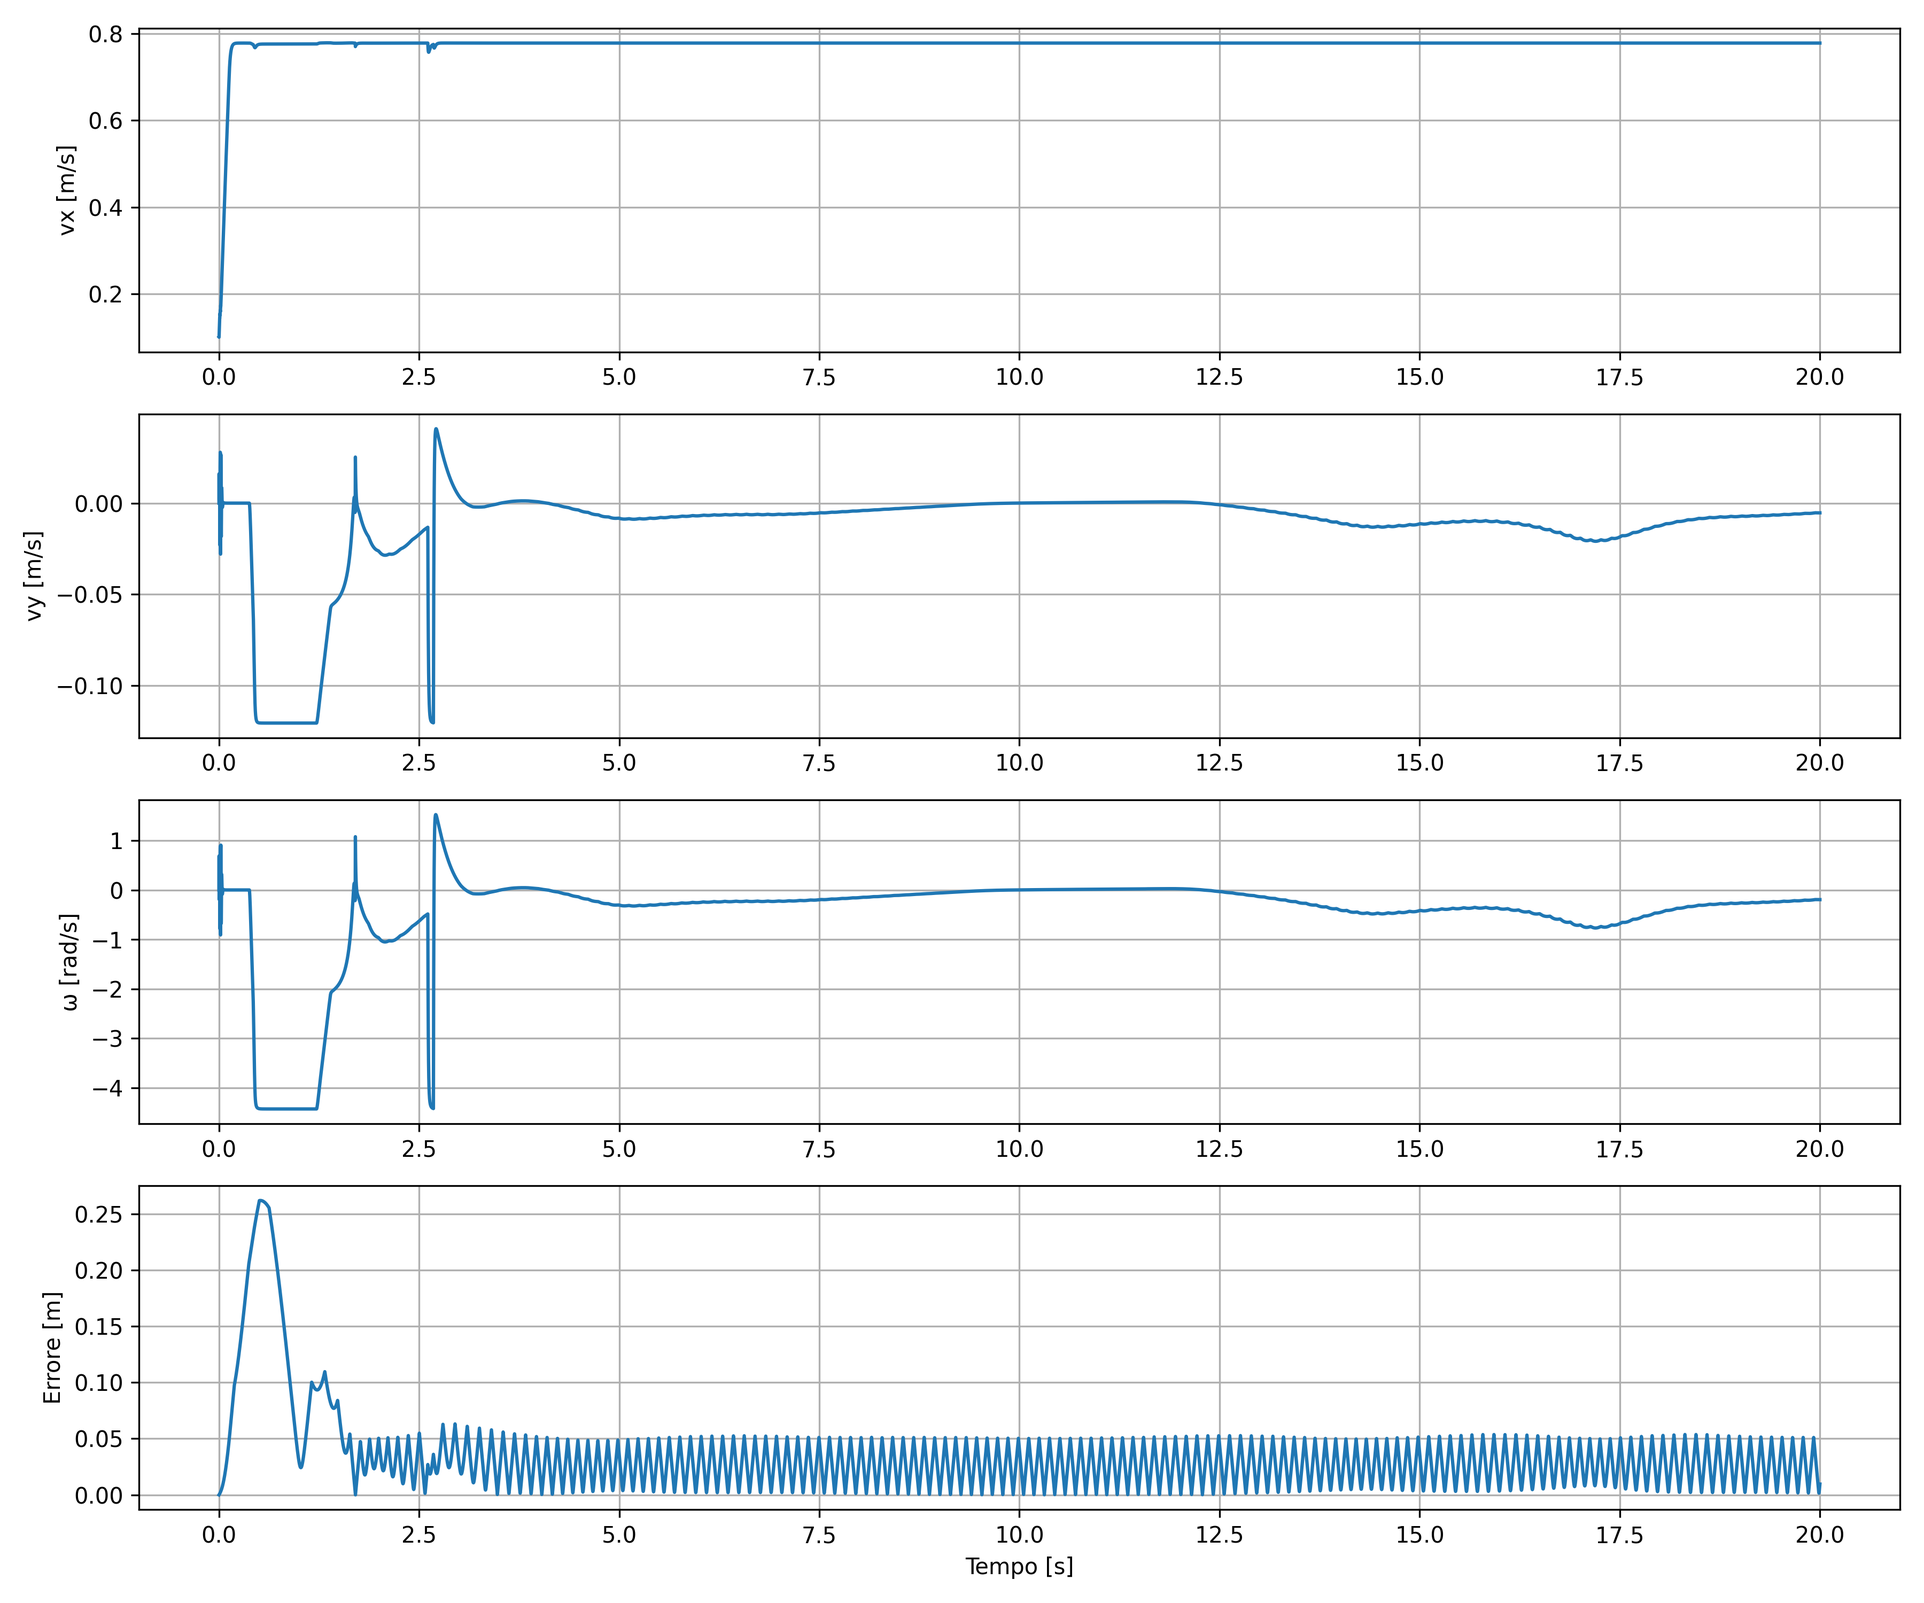
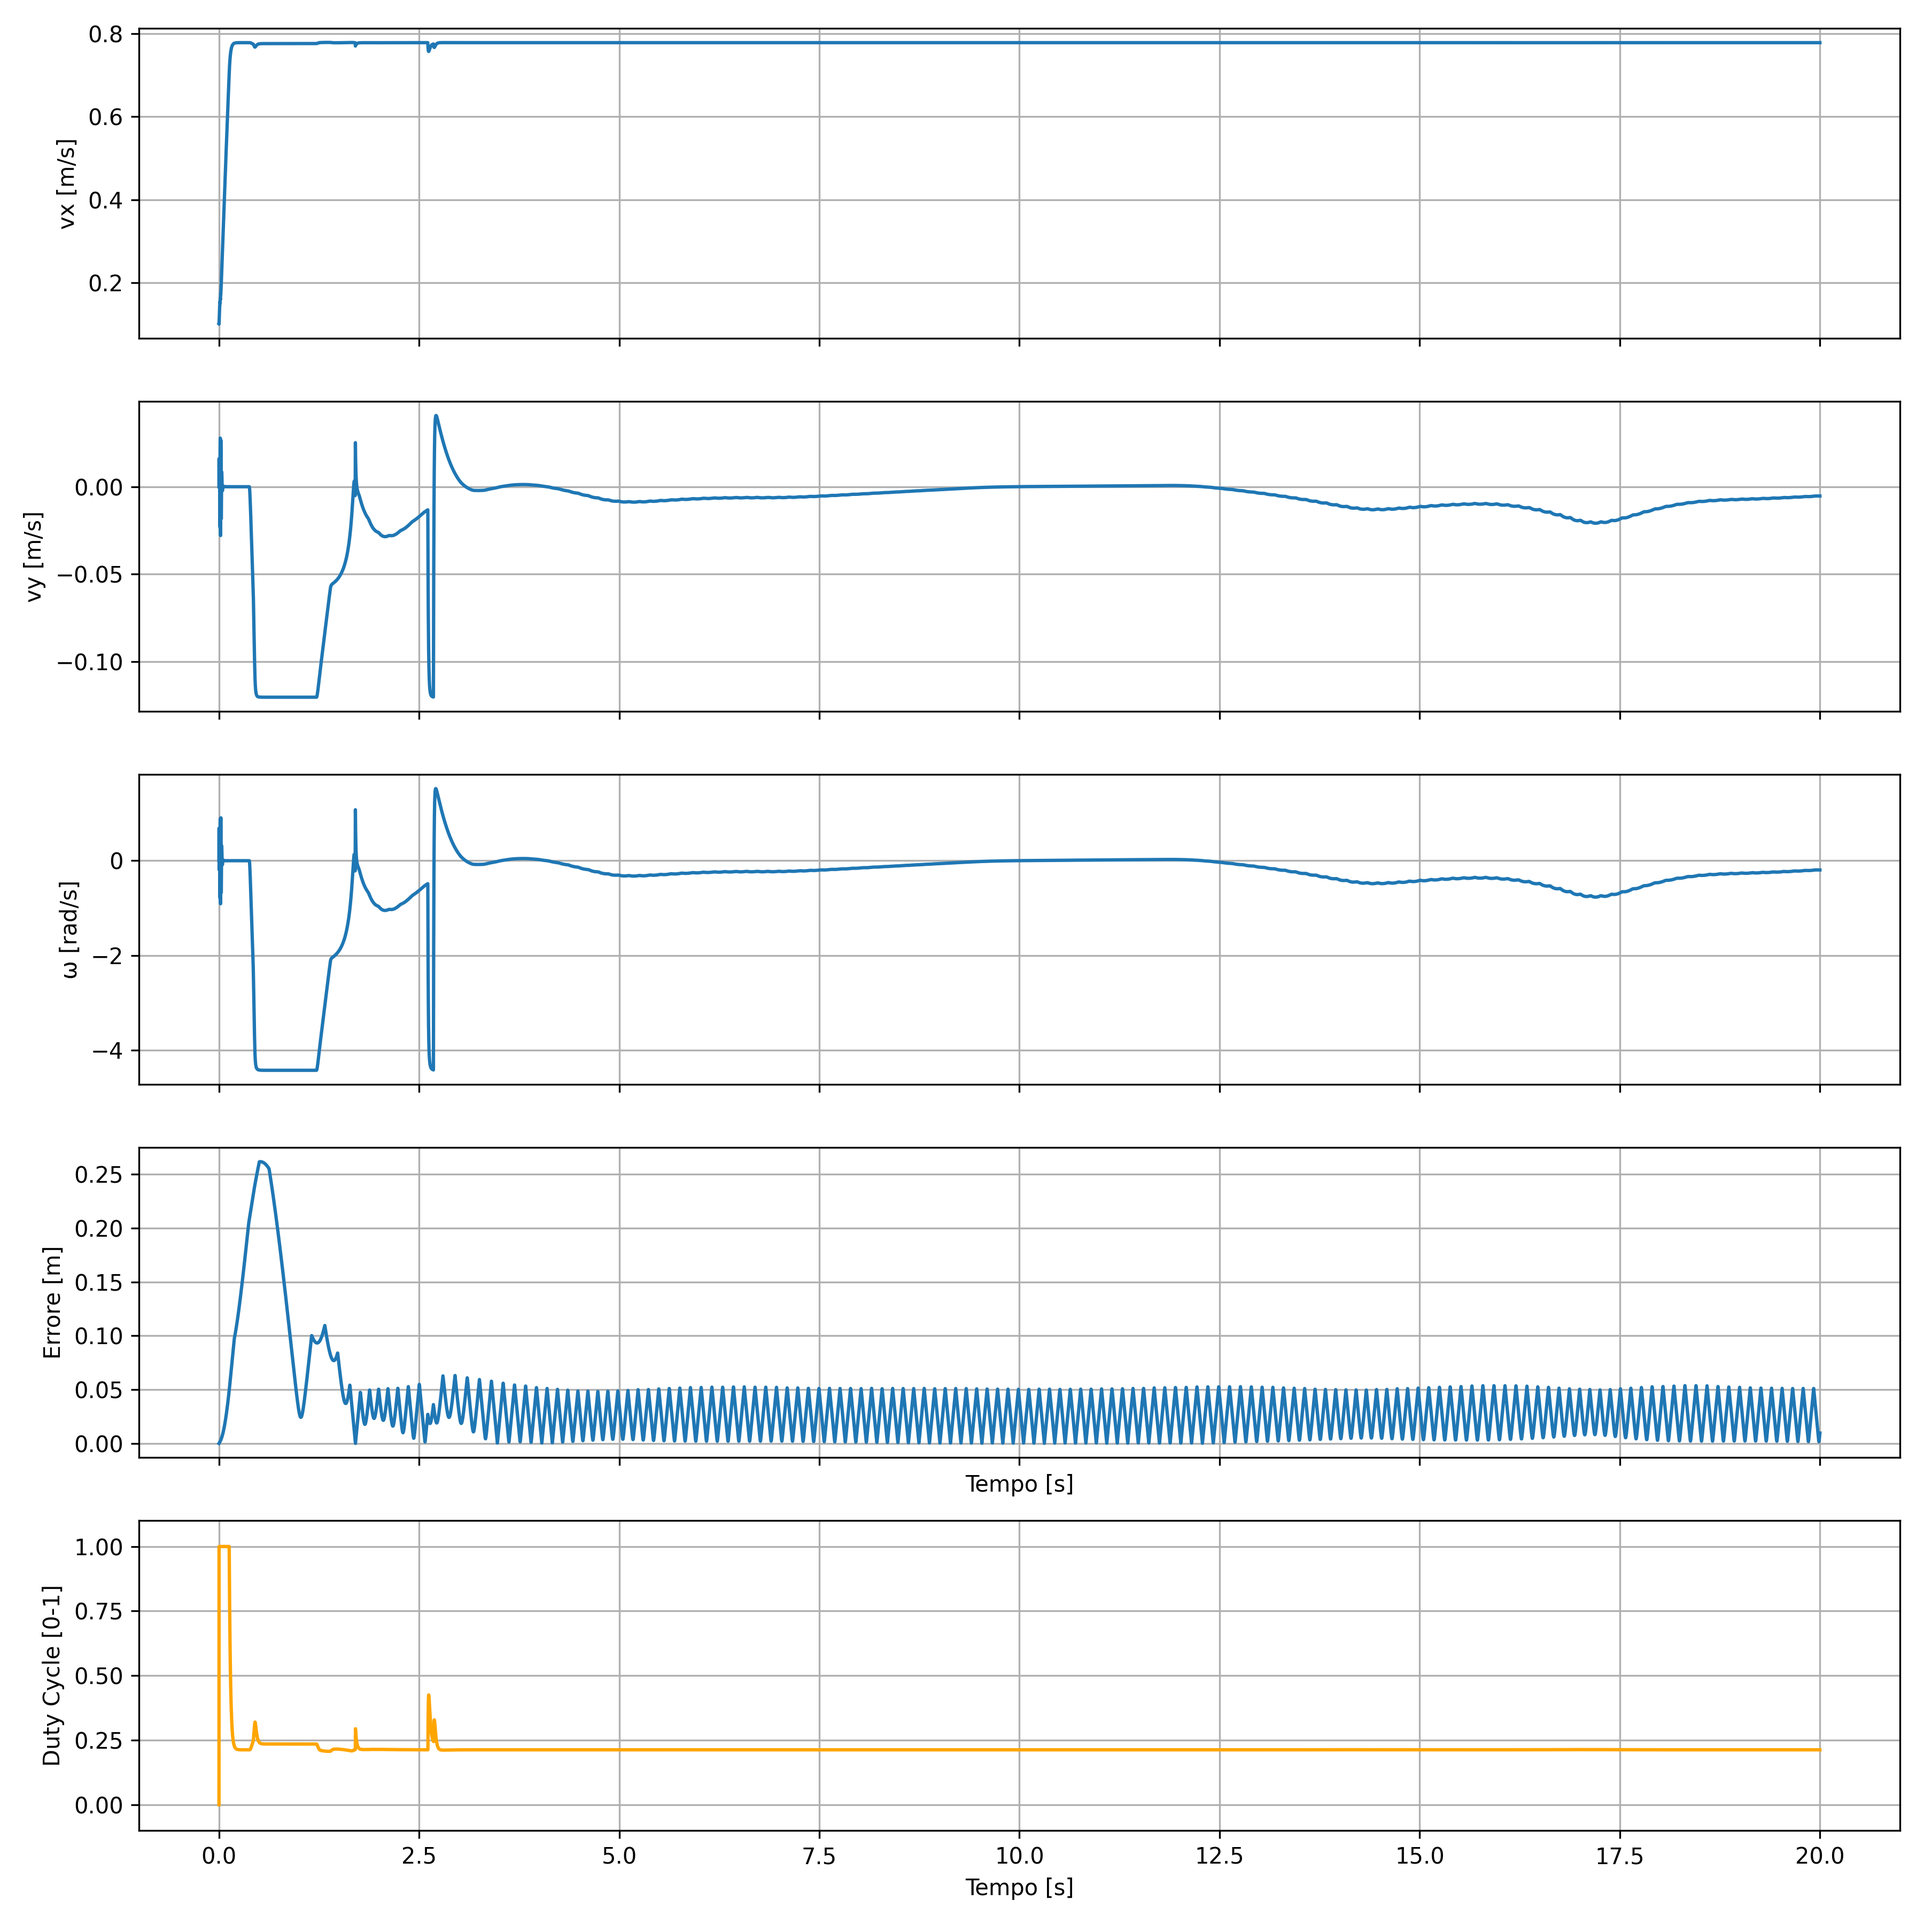
Aggiunta grafici e cartelle per kp puramente proporzionale

diff --git a/main.py b/main.py
@@ -178,7 +178,7 @@ def simulazione_traiettoria (ref_x, ref_y, trajectory_x, trajectory_y, dt, outpu
 
 def run_simulation():
     dt = 0.001  # passo di integrazione
-    T_sim = 20.0 #durata simulazione
+    T_sim = 40.0 #durata simulazione
     num_steps = int(T_sim / dt) #numero di iterazioni del ciclo
 
     d_constant = 0.3  # duty cycle costante
@@ -247,6 +247,7 @@ def run_simulation():
     vx_history = [state.vx]
     vy_history = [state.vy]
     omega_history = [state.omega]
+    d_history = [0.0]
 
     print(f"\nInizio simulazione: {num_steps} step, dt={dt}s")
 
@@ -276,6 +277,7 @@ def run_simulation():
         vx_history.append(state.vx)
         vy_history.append(state.vy)
         omega_history.append(state.omega)
+        d_history.append(d_cmd)
 
         if step % int(2 / dt) == 0:
             print(f"t={current_time:.1f}s: pos=({state.X:.3f}, {state.Y:.3f}), " #se rientro nel tempo, stampo il current_time , la posizione X e Y e vx e vy
@@ -283,9 +285,8 @@ def run_simulation():
 
     print("\nSimulazione completata!")
 
-    # ==============================================================
-    #                STATISTICHE
-    # ==============================================================
+
+
 
     errors = []  #dichiaro array errori
     for x, y in zip(trajectory_x, trajectory_y):
@@ -302,14 +303,35 @@ def run_simulation():
     #                PLOT
     # ==============================================================
 
+    base_dir = "Grafici"
+    tipo_controllo = "azione_proporzionale"
 
-    #CREAZIONE CARTELLE PER I GRAFICI
-    run_name = f"T{T_sim}_dt{dt}_d{d_constant}"
+    dettagli_run = f"Kp{kp}_Vref{vx_des}_T{T_sim}_dt{dt}"
+
+
+    run_dir = os.path.join(base_dir, trajectory_name, tipo_controllo, dettagli_run)
+
+
+    os.makedirs(run_dir, exist_ok=True)
+
+
+    path_file_testo = os.path.join(run_dir, "parametri_simulazione.txt")
+    with open(path_file_testo, "w") as f:
+        f.write("DATI DELL'ESPERIMENTO\n")
+        f.write("=====================\n")
+        f.write(f"Traiettoria: {trajectory_name}\n")
+        f.write(f"Tempo totale (T_sim): {T_sim} s\n")
+        f.write(f"Target Velocità (vx_des): {vx_des} m/s\n")
+        f.write(f"Guadagno Proporzionale (kp): {kp}\n")
+        f.write(f"Passo integrazione (dt): {dt} s\n")
+
+    """run_name = f"T{T_sim}_dt{dt}_d{d_constant}"
     base_dir = "Grafici"
     traj_dir = os.path.join(base_dir, trajectory_name)  #sottocartella per traiettoria
     run_dir = os.path.join(traj_dir, run_name)
 
-    os.makedirs(run_dir, exist_ok=True)
+    os.makedirs(run_dir, exist_ok=True)"""
+
 
 
     #si separano x e y in due liste
@@ -343,7 +365,7 @@ def run_simulation():
     plt.savefig(os.path.join(run_dir, "Traiettoria_Seguita.png"), dpi = 300)
     plt.show()
 
-    fig, axes = plt.subplots(4, 1, figsize=(12, 10)) #4 figure all'interno del file una per vx(t), una per vy(t), una per w(t) e una per l'errore
+    fig, axes = plt.subplots(5, 1, figsize=(12, 12), sharex = True) #5 figure all'interno del file una per vx(t), una per vy(t), una per w(t) e una per l'errore
 
     axes[0].plot(time_history, vx_history)
     axes[0].set_ylabel('vx [m/s]')
@@ -361,6 +383,12 @@ def run_simulation():
     axes[3].set_ylabel('Errore [m]')
     axes[3].set_xlabel('Tempo [s]')
     axes[3].grid(True)
+
+    axes[4].plot(time_history, d_history, color='orange', linewidth=1.5)
+    axes[4].set_ylabel('Duty Cycle [0-1]')
+    axes[4].set_xlabel('Tempo [s]')
+    axes[4].set_ylim(-0.1, 1.1)  # Per vedere bene le saturazioni
+    axes[4].grid(True)
 
     plt.tight_layout()
     plt.savefig(os.path.join(run_dir, "Stati_e_Errore.png"), dpi = 300)
